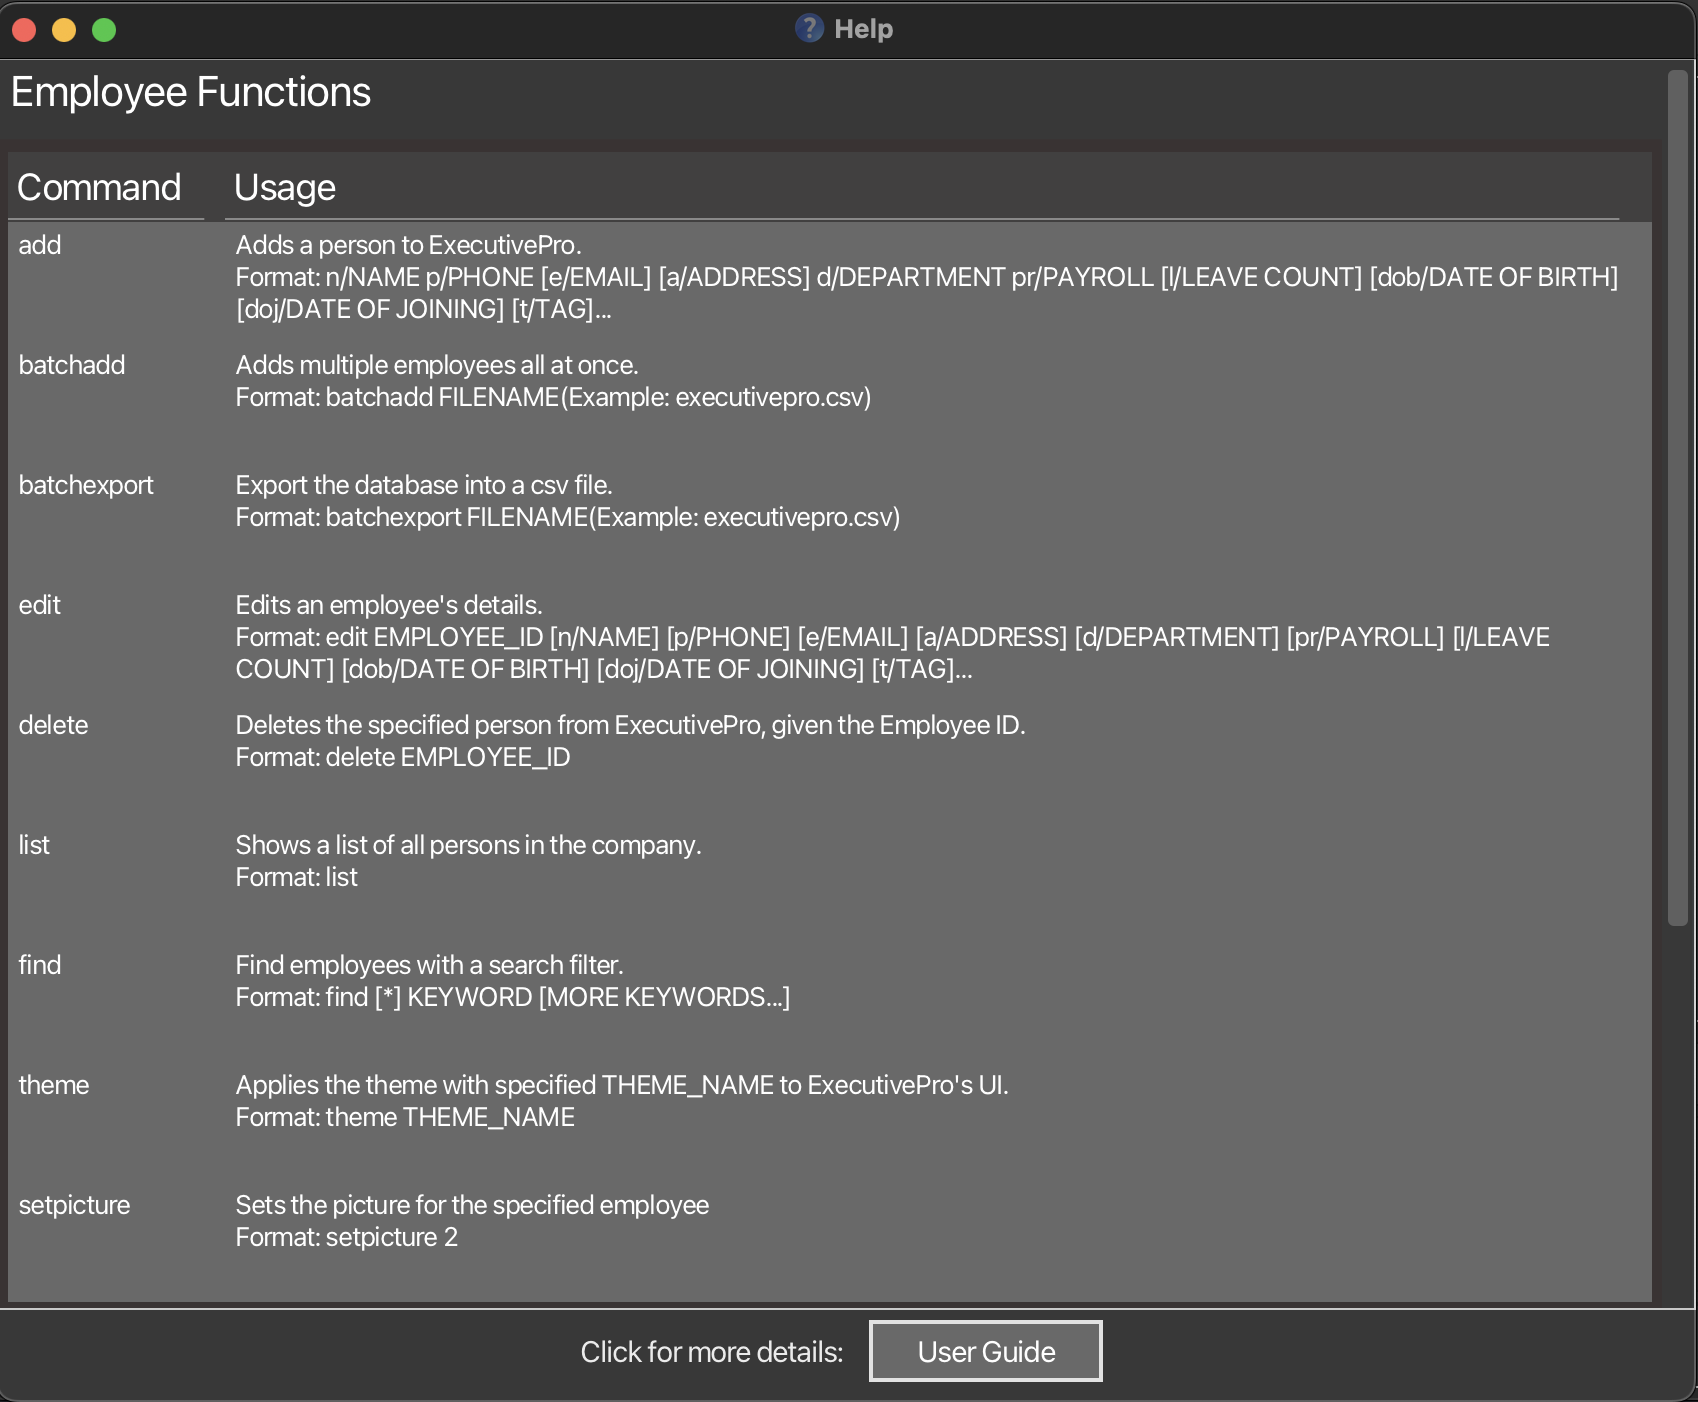
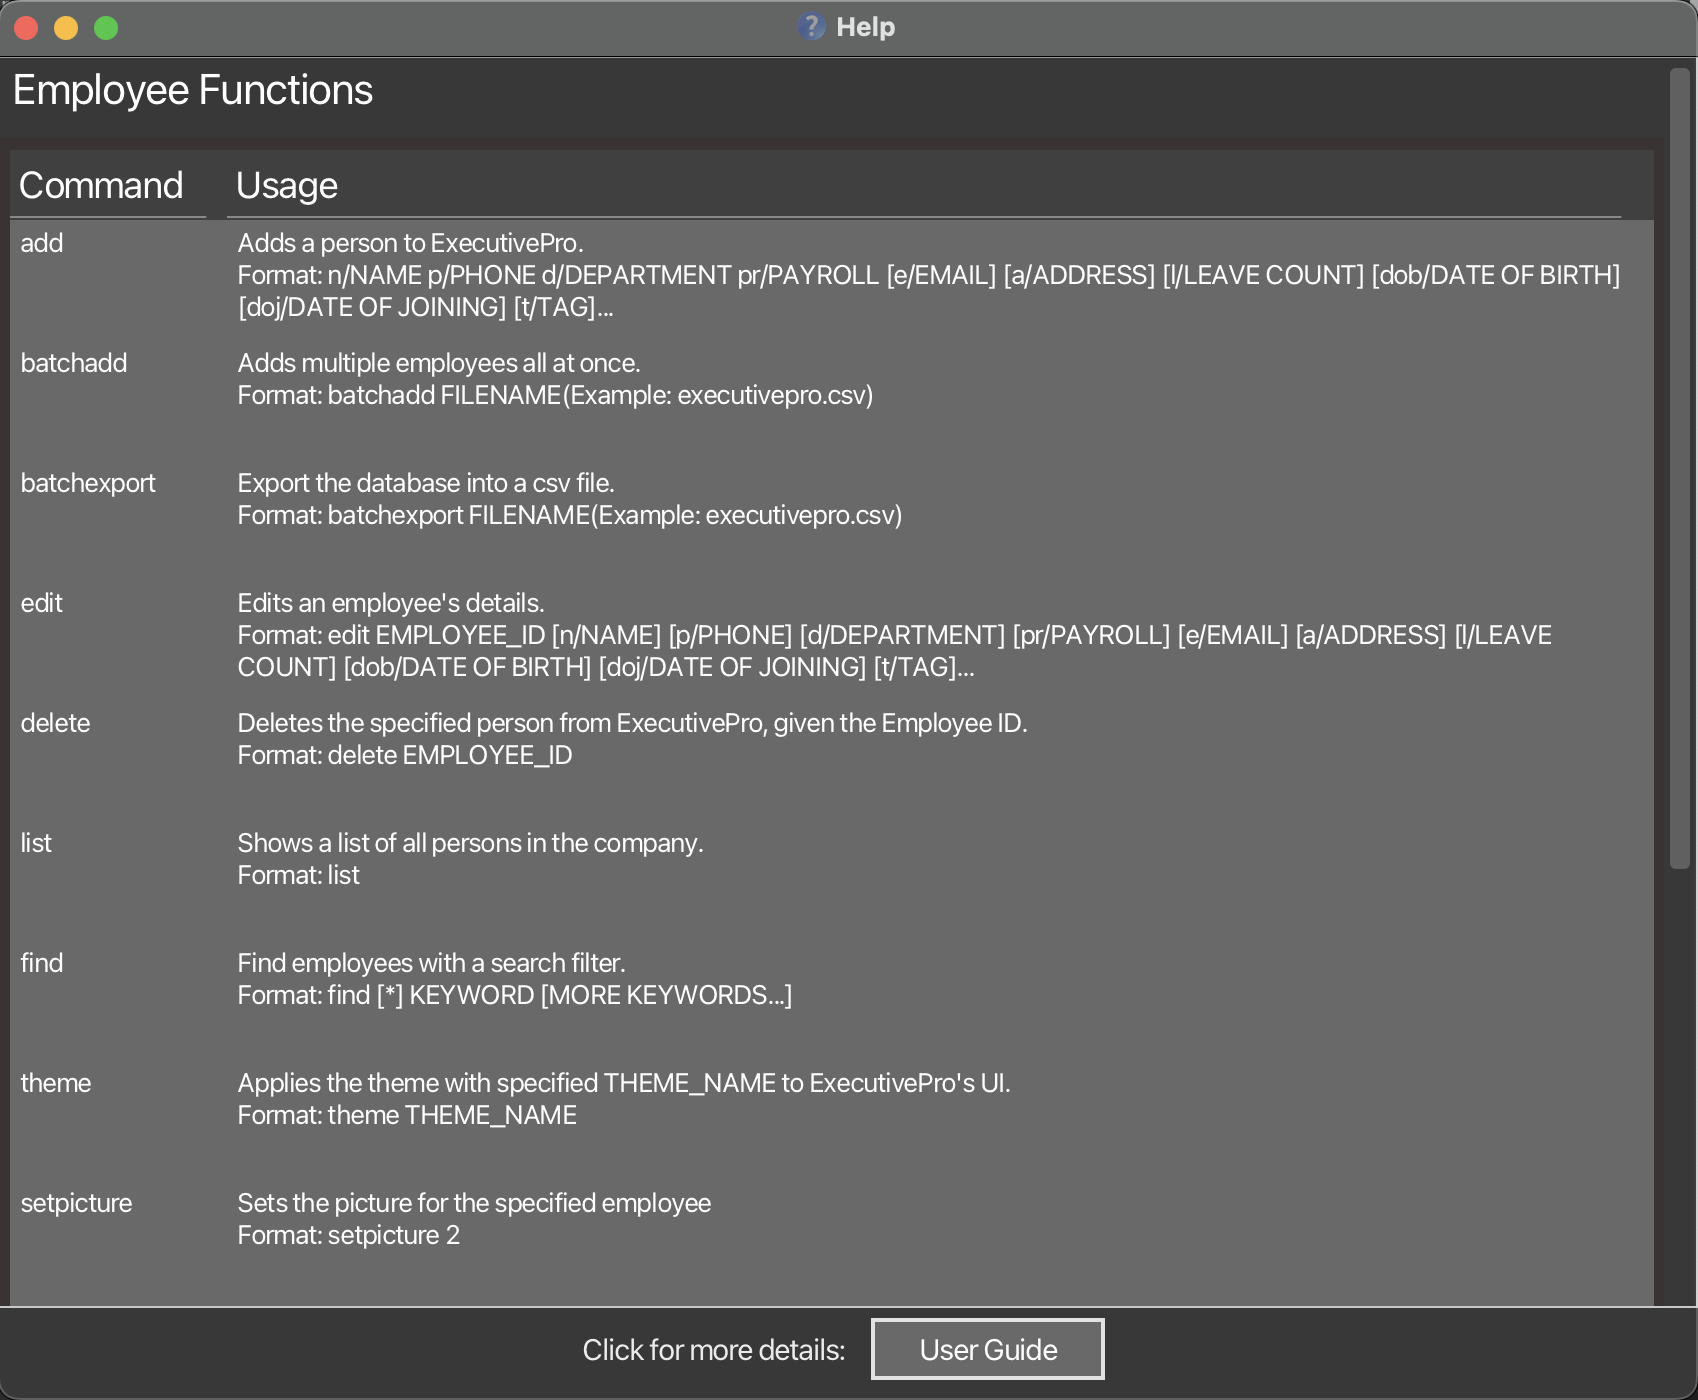
Update UG based on command format

diff --git a/docs/UserGuide.md b/docs/UserGuide.md
@@ -36,9 +36,9 @@ ExecutivePro (EP) is a **desktop app for Human Resource managers to manage their
 
     - **`list`** : Lists all employees in the company.
    
-    - **`add`** :`add n/Mark Doe p/98765432 e/markd@example.com a/311, Clementi Ave 2, #02-25 d/Marketing pr/1000 15
-   t/SoftwareEngineer` : Adds an employee named `Mark Doe`, with fields phone number, email, address,
-   department, payroll and tags to ExecutivePro's database.
+    - **`add`** :`add n/Mark Doe p/98765432 d/Marketing pr/1000 15 e/markd@example.com a/311, Clementi Ave 2, #02-25
+   t/SoftwareEngineer` : Adds an employee named `Mark Doe`, with fields phone number, department, payroll, 
+   email, address, and tags to ExecutivePro's database.
 
     - **`delete 3`** : Deletes employee with ID 3.
 
@@ -100,15 +100,19 @@ However, this function could fail (and ExecutivePro simply does not add any empl
 3. The new employee added is a duplicate, i.e. there is someone in the database who already shares the same name and
     details.
 
-Format: `add n/NAME p/PHONE_NUMBER [e/EMAIL] [a/ADDRESS] d/DEPARTMENT pr/PAYROLL [l/LEAVE COUNT] [dob/DATE OF BIRTH] [doj/DATE OF JOINING] [t/TAG]...`
+Format: `add n/NAME p/PHONE_NUMBER d/DEPARTMENT pr/PAYROLL [e/EMAIL] [a/ADDRESS] [l/LEAVE COUNT] [dob/DATE OF BIRTH] [doj/DATE OF JOINING] [t/TAG]...`
 
 <div markdown="span" class="alert alert-primary">
-:bulb: **For Tags:**
+
+:bulb:
+**For Tags:**
 A person can have any number of tags (including 0)
+
 </div>
+
 Examples:
-* `add n/John Doe p/98765432 e/johnd@example.com a/John street, block 123, #01-01 d/Marketing pr/1000 15`
-* `add n/Betsy Crowe p/1234567 e/betsycrowe@example.com a/Newgate street, block 576, #01-02 d/Sales pr/4000 1 dob/2000-04-21 doj/2022-01-04 t/friend`
+* `add n/John Doe p/98765432 d/Marketing pr/1000 15 e/johnd@example.com a/John street, block 123, #01-01`
+* `add n/Betsy Crowe p/1234567 d/Sales pr/4000 1 e/betsycrowe@example.com a/Newgate street, block 576, #01-02 dob/2000-04-21 doj/2022-01-04 t/friend`
 
 
 ### Adding multiple employees at once: `batchadd`
@@ -141,10 +145,10 @@ Order of headers is as such (**Order must be followed**):
 |-------|-----------------|----------------|
 | 1.    | `NAME`          | **Compulsory** | 
 | 2.    | `PHONE`         | **Compulsory** |
-| 3.    | `EMAIL`         | Optional       | 
-| 4.    | `ADDRESS`       | Optional       | 
-| 5.    | `DEPARTMENT`    | **Compulsory** | 
-| 6.    | `PAYROLL`       | **Compulsory** | 
+| 3.    | `DEPARTMENT`    | **Compulsory** | 
+| 4.    | `PAYROLL`       | **Compulsory** | 
+| 5.    | `EMAIL`         | Optional       | 
+| 6.    | `ADDRESS`       | Optional       | 
 | 7.    | `LEAVECOUNT`    | Optional       | 
 | 8.    | `DATEOFBIRTH`   | Optional       |
 | 9.    | `DATEOFJOINING` | Optional       |
@@ -229,7 +233,7 @@ Format: `list`
 
 Edits an employee’s details in the ExecutivePro database.
 
-Format: `edit EMPLOYEE_ID [n/NAME] [p/PHONE_NUMBER] [e/EMAIL] [a/ADDRESS] [d/DEPARTMENT] [pr/PAYROLL] [l/LEAVE_COUNT] [dob/DATE_OF_BIRTH] [doj/DATE_OF_JOINING] [t/TAG]...`
+Format: `edit EMPLOYEE_ID [n/NAME] [p/PHONE_NUMBER] [d/DEPARTMENT] [pr/PAYROLL] [e/EMAIL] [a/ADDRESS] [l/LEAVE_COUNT] [dob/DATE_OF_BIRTH] [doj/DATE_OF_JOINING] [t/TAG]...`
 
 * Edits the details of the employee with the specified `EMPLOYEE_ID`. If such an employee doesn’t exist, an error message will be shown.
 * At least one of the optional fields must be provided.
@@ -256,7 +260,7 @@ Examples:
 
 ### Locating employees by keyword: `find`
 
-Shows a list of all employees in address book whose names match the keyword provided.
+Shows a list of all employees in ExecutivePro whose names match the keyword provided.
 
 Format: `find [*] KEYWORD [MORE_KEYWORDS]`
 
@@ -374,10 +378,10 @@ This table describes the requirements for the input format of the fields.
 |----------------------------|--------|------------------------------------------------------------------------------------------------------------------------------------------------------------------------------------------------------------------------------------------------------------------------------------------------------------------------------------------------------------------------------------------------|------------------------------------------|
 | `NAME`                     | n/     | Only alphanumeric characters and spaces only.                                                                                                                                                                                                                                                                                                                                                  | `John Doe`, `Shawn Lee`                  |
 | `PHONE`                    | p/     | Contain numbers only from 3 digits long to 15 digits long                                                                                                                                                                                                                                                                                                                                      | `80101126`, `973629831`, `999`           |
-| `EMAIL`                    | e/     | Be in the format of local-part@domain.ending. "local-part" should contain only alphanumeric characters and/or certain special characters (+\_.-), and cannot start or end with any special characters. "domain" should start and end with alphanumeric characters, must be at least 2 characters long, and can contain hyphens. "ending" part must be at least 2 characters long (e.g. ".com") | `johnd@example.com`, `shawn@example.edu` |
-| `ADDRESS`                  | a/     | Can take any value.                                                                                                                                                                                                                                                                                                                                                                            | `311, Clementi Ave 2, #02-25`            |
 | `DEPARTMENT`               | d/     | Only alphanumeric characters                                                                                                                                                                                                                                                                                                                                                                   | `Sales`, `General Management`            |
 | `PAYROLL`                  | pr/    | Can take any value.                                                                                                                                                                                                                                                                                                                                                                            | `1000 15`                                |
+| `EMAIL`                    | e/     | Be in the format of local-part@domain.ending. "local-part" should contain only alphanumeric characters and/or certain special characters (+\_.-), and cannot start or end with any special characters. "domain" should start and end with alphanumeric characters, must be at least 2 characters long, and can contain hyphens. "ending" part must be at least 2 characters long (e.g. ".com") | `johnd@example.com`, `shawn@example.edu` |
+| `ADDRESS`                  | a/     | Can take any value.                                                                                                                                                                                                                                                                                                                                                                            | `311, Clementi Ave 2, #02-25`            |
 | `LEAVE`                    | l/     | Must be an integer less than `21`.                                                                                                                                                                                                                                                                                                                                                             | `1`, `10`, `20`                          |
 | `DATE_OF_BIRTH`            | dob/   | Date in YYYY-MM-DD format.                                                                                                                                                                                                                                                                                                                                                                     | `2022-01-10`                             |
 | `DATE_OF_JOINING`          | doj/   | Date in YYYY-MM-DD format.                                                                                                                                                                                                                                                                                                                                                                     | `2022-12-10`                             |
@@ -388,19 +392,19 @@ This table describes the requirements for the input format of the fields.
 ## Command summary
 
 
-| Action             | Format, Examples                                                                                                                                                                                                                                                                                                                      |
-|--------------------|---------------------------------------------------------------------------------------------------------------------------------------------------------------------------------------------------------------------------------------------------------------------------------------------------------------------------------------|
-| **Help**           | `help`                                                                                                                                                                                                                                                                                                                                |
-| **Add**            | `add EMPLOYEE_ID [n/NAME] [p/PHONE_NUMBER] [e/EMAIL] [a/ADDRESS] [d/DEPARTMENT] [pr/PAYROLL] [l/LEAVE_COUNT] [dob/DATE_OF_BIRTH] [doj/DATE_OF_JOINING] [t/TAG]...` <br> e.g., `add 1 n/John Doe p/98765432 e/johnd@example.com a/John street, block 123, #01-01 d/Marketing pr/4000 15 l/19 dob/2000-04-21 doj/2022-01-04 t/friends ` |
-| **BatchAdd**       | `batchadd FILENAME` <br> e.g., `batchadd executivepro.csv`                                                                                                                                                                                                                                                                            |
-| **BatchExport**    | `batchexport FILENAME` <br> e.g., `batchexport exported_database.csv`                                                                                                                                                                                                                                                                 |
-| **List**           | `list`                                                                                                                                                                                                                                                                                                                                |
-| **Edit**           | `edit EMPLOYEE_ID [n/NAME] [p/PHONE_NUMBER] [e/EMAIL] [a/ADDRESS] [d/DEPARTMENT] [pr/PAYROLL] [l/LEAVE_COUNT] [dob/DATE_OF_BIRTH] [doj/DATE_OF_JOINING] [t/TAG]...`<br> e.g.,`edit 1 p/91234567 e/johndoe@example.com`                                                                                                                |
-| **Leave**          | `leave EMPLOYEE_ID l/LEAVE_COUNT`<br> e.g.,`leave 1 l/3`                                                                                                                                                                                                                                                                              |
-| **Find**           | `find KEYWORD [MORE_KEYWORDS]`<br> e.g., `find James Jake`                                                                                                                                                                                                                                                                            |
-| **Delete**         | `delete EMPLOYEE_ID`<br> e.g., `delete 3`                                                                                                                                                                                                                                                                                             |
-| **Theme**          | `theme THEME_NAME` <br> e.g., `theme light`                                                                                                                                                                                                                                                                                           |
-| **SetPicture**     | `setpicture EMPLOYEEID` <br> e.g., `setpicture 2`                                                                                                                                                                                                                                                                                     |
-| **Exit**           | `exit`                                                                                                                                                                                                                                                                                                                                |
-| **Clear**          | `clear`                                                                                                                                                                                                                                                                                                                               |
+| Action             | Format, Examples                                                                                                                                                                                                                                                                                                |
+|--------------------|-----------------------------------------------------------------------------------------------------------------------------------------------------------------------------------------------------------------------------------------------------------------------------------------------------------------|
+| **Help**           | `help`                                                                                                                                                                                                                                                                                                          |
+| **Add**            | `add n/NAME p/PHONE_NUMBER d/DEPARTMENT pr/PAYROLL [e/EMAIL] [a/ADDRESS] [l/LEAVE_COUNT] [dob/DATE_OF_BIRTH] [doj/DATE_OF_JOINING] [t/TAG]...` <br> e.g., `add n/John Doe p/98765432 d/Marketing pr/4000 15 e/johnd@example.com a/John street, block 123, #01-01 l/19 dob/2000-04-21 doj/2022-01-04 t/friends ` |
+| **BatchAdd**       | `batchadd FILENAME` <br> e.g., `batchadd executivepro.csv`                                                                                                                                                                                                                                                      |
+| **BatchExport**    | `batchexport FILENAME` <br> e.g., `batchexport exported_database.csv`                                                                                                                                                                                                                                           |
+| **List**           | `list`                                                                                                                                                                                                                                                                                                          |
+| **Edit**           | `edit EMPLOYEE_ID [n/NAME] [p/PHONE_NUMBER] [d/DEPARTMENT] [pr/PAYROLL] [e/EMAIL] [a/ADDRESS] [l/LEAVE_COUNT] [dob/DATE_OF_BIRTH] [doj/DATE_OF_JOINING] [t/TAG]...`<br> e.g.,`edit 1 p/91234567 e/johndoe@example.com`                                                                                          |
+| **Leave**          | `leave EMPLOYEE_ID l/LEAVE_COUNT`<br> e.g.,`leave 1 l/3`                                                                                                                                                                                                                                                        |
+| **Find**           | `find KEYWORD [MORE_KEYWORDS]`<br> e.g., `find James Jake`                                                                                                                                                                                                                                                      |
+| **Delete**         | `delete EMPLOYEE_ID`<br> e.g., `delete 3`                                                                                                                                                                                                                                                                       |
+| **Theme**          | `theme THEME_NAME` <br> e.g., `theme light`                                                                                                                                                                                                                                                                     |
+| **SetPicture**     | `setpicture EMPLOYEEID` <br> e.g., `setpicture 2`                                                                                                                                                                                                                                                               |
+| **Exit**           | `exit`                                                                                                                                                                                                                                                                                                          |
+| **Clear**          | `clear`                                                                                                                                                                                                                                                                                                         |
 
